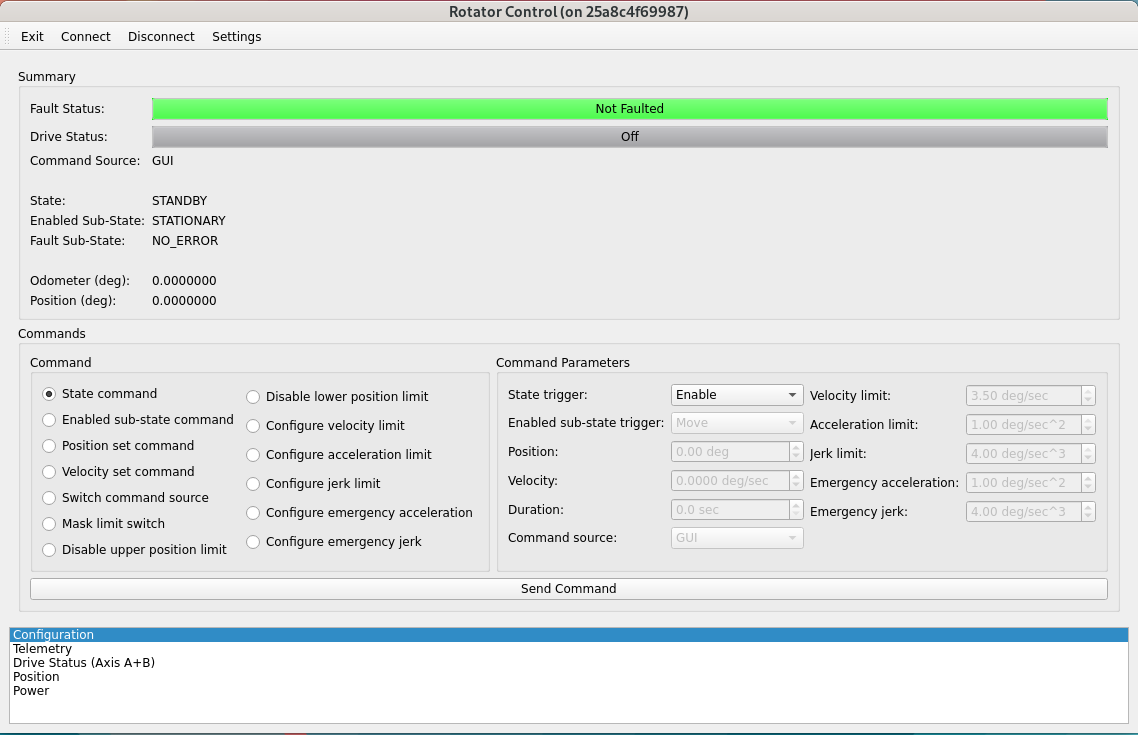
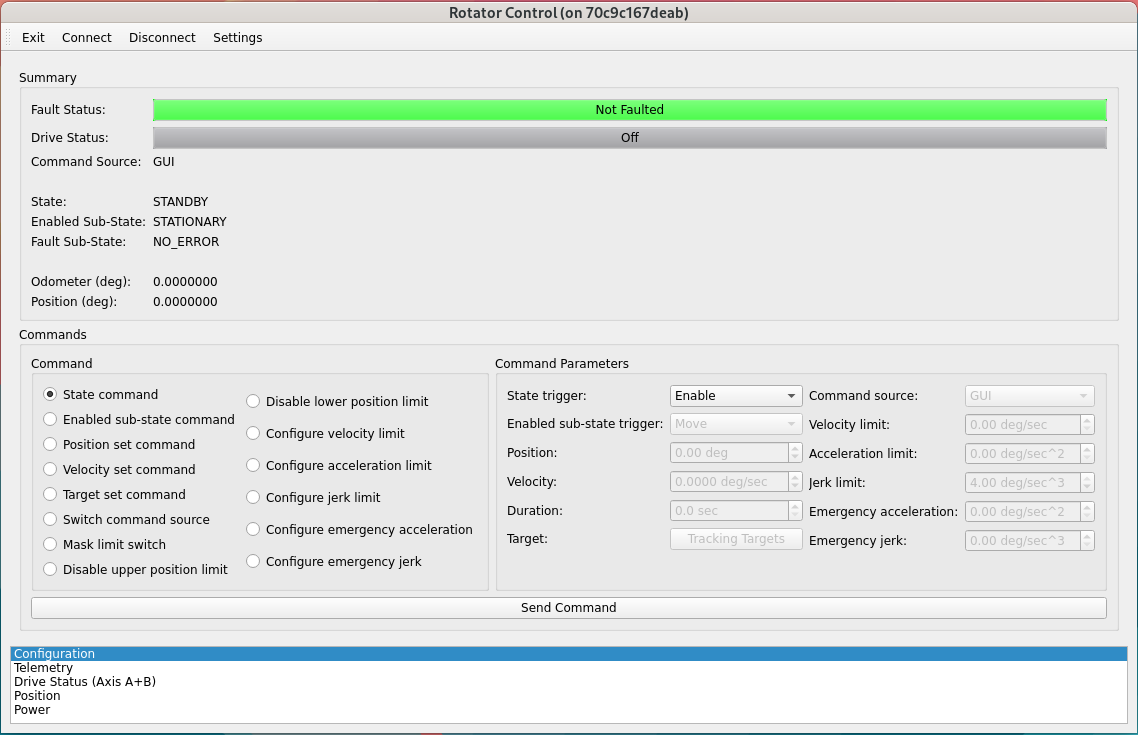
Update the documents.

diff --git a/doc/user-guide/user-guide.rst b/doc/user-guide/user-guide.rst
@@ -113,7 +113,7 @@ Some important commands are listed below:
 
 #. State command lets you change the controller's state between **Standby** and **Enabled** states. If there is the fault, you can clear the error here.
 
-#. Enabled-sub-state command lets you move the rotator once setting the rotator's position, do the constant velocity movement, or stop the rotator's movement.
+#. Enabled-sub-state command lets you move the rotator once setting the rotator's position, do the constant velocity movement, track the target, or stop the rotator's movement.
 
 #. Switch-command-source command sets the command source to be GUI or CSC.
 

diff --git a/doc/version_history.rst b/doc/version_history.rst
@@ -6,6 +6,19 @@
 Version History
 ##################
 
+.. _lsst.ts.rotgui-0.5.0:
+
+-------------
+0.5.0
+-------------
+
+* Add the dependencis of **ts_utils** and **ts_simactuators**.
+* Add the ``tab_target.py``.
+* Support the tracking of targets.
+* Update the UML diagrams.
+* Add the ``documenteer.toml``.
+* Update the ``Jenkinsfile.conda`` to remove the ``use_pyside6`` option, which is the default value.
+
 .. _lsst.ts.rotgui-0.4.6:
 
 -------------

diff --git a/doc/developer-guide/developer-guide.rst b/doc/developer-guide/developer-guide.rst
@@ -16,6 +16,8 @@ Dependencies
 * `ts_tcpip <https://github.com/lsst-ts/ts_tcpip>`_
 * `ts_salobj <https://github.com/lsst-ts/ts_salobj>`_
 * `ts_hexrotcomm <https://github.com/lsst-ts/ts_hexrotcomm>`_
+* `ts_utils <https://github.com/lsst-ts/ts_utils>`_
+* `ts_simactuators <https://github.com/lsst-ts/ts_simactuators>`_
 
 .. _Architecture:
 
